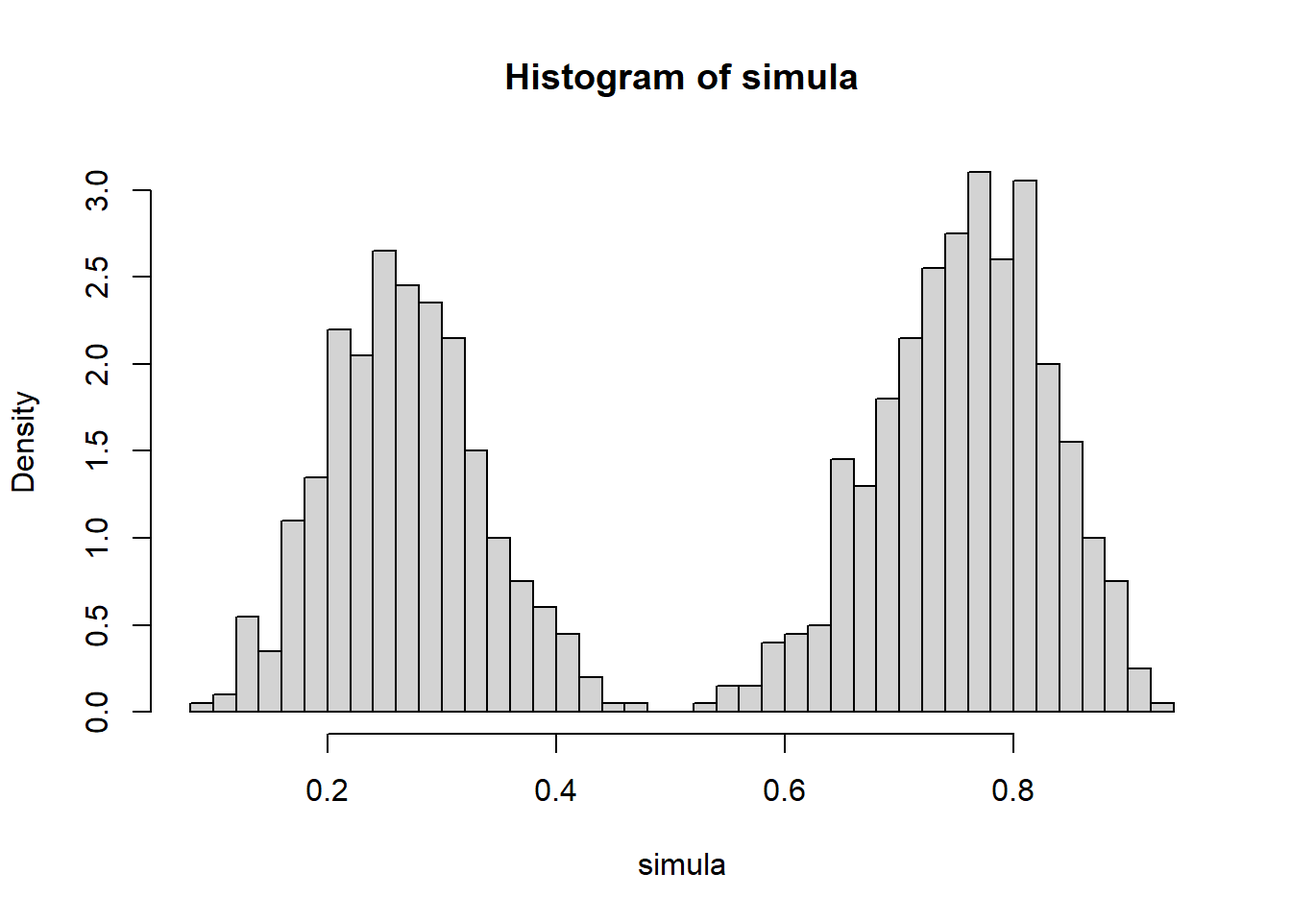
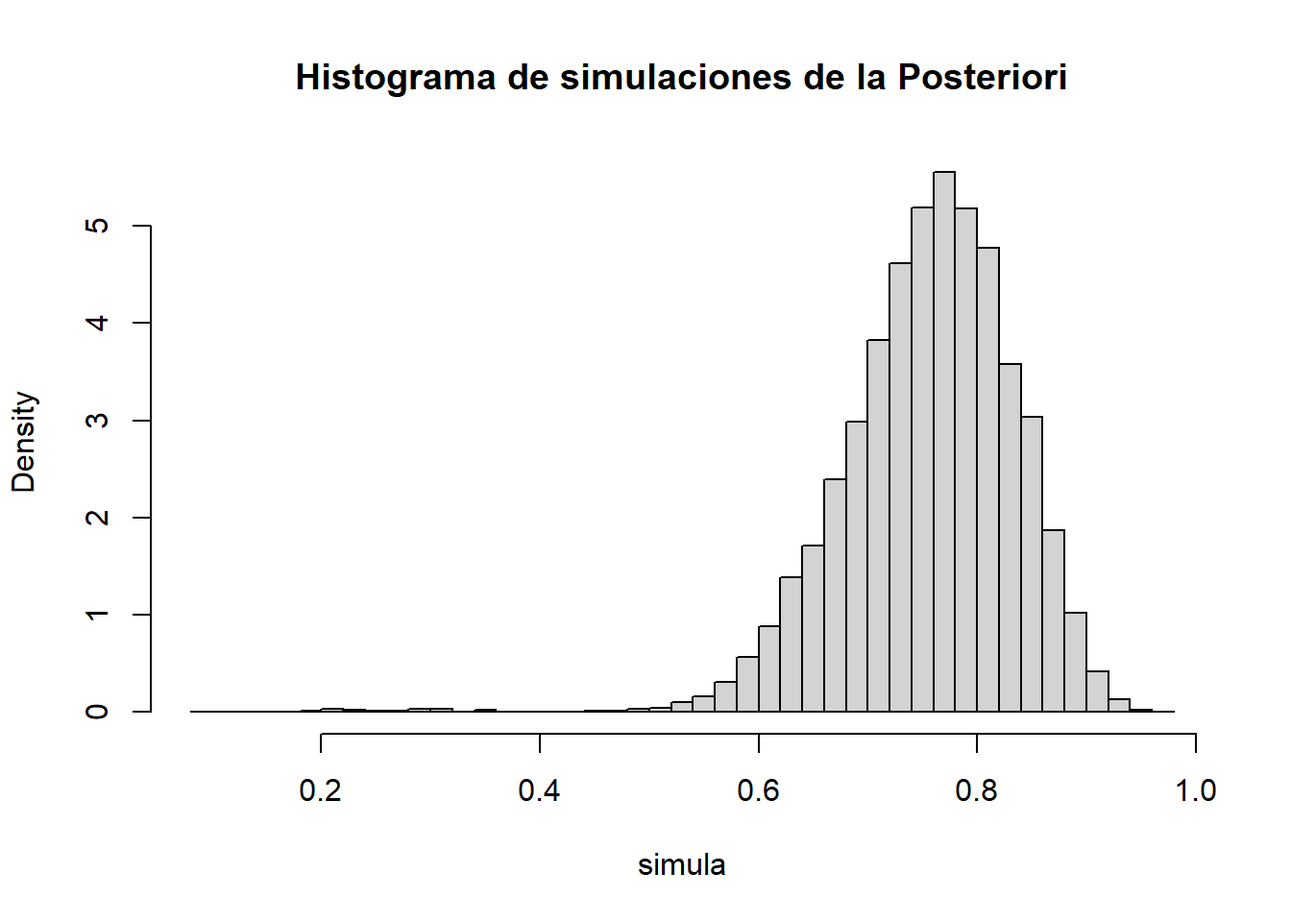
Se actualiza hasta el contenido previo a la I2, se añade una ayudantía.

diff --git a/Metodos-bayesianos_Ayudantia8.html b/Metodos-bayesianos_Ayudantia8.html
@@ -115,6 +115,7 @@ code span.wa { color: #60a0b0; font-weight: bold; font-style: italic; } /* Warni
   <li><a href="#ayudantía-8" id="toc-ayudantía-8" class="nav-link" data-scroll-target="#ayudantía-8">Ayudantía 8</a>
   <ul class="collapse">
   <li><a href="#ejercicio-1" id="toc-ejercicio-1" class="nav-link" data-scroll-target="#ejercicio-1">Ejercicio 1</a></li>
+  <li><a href="#ejercicio-extra" id="toc-ejercicio-extra" class="nav-link" data-scroll-target="#ejercicio-extra">Ejercicio Extra</a></li>
   </ul></li>
   </ul></li>
   </ul>
@@ -166,15 +167,15 @@ code span.wa { color: #60a0b0; font-weight: bold; font-style: italic; } /* Warni
 <span id="cb1-5"><a href="#cb1-5" aria-hidden="true" tabindex="-1"></a>a_2 <span class="ot">&lt;-</span> <span class="dv">15</span> <span class="co"># \alpha_2</span></span>
 <span id="cb1-6"><a href="#cb1-6" aria-hidden="true" tabindex="-1"></a>b_2 <span class="ot">&lt;-</span> <span class="dv">1</span> <span class="co"># \beta_2</span></span>
 <span id="cb1-7"><a href="#cb1-7" aria-hidden="true" tabindex="-1"></a></span>
-<span id="cb1-8"><a href="#cb1-8" aria-hidden="true" tabindex="-1"></a>C_1 <span class="ot">&lt;-</span> <span class="fu">gamma</span>(n<span class="sc">+</span><span class="dv">1</span>)<span class="sc">*</span><span class="fu">gamma</span>(a_1<span class="sc">+</span>b_1)<span class="sc">*</span><span class="fu">gamma</span>(Y<span class="sc">+</span>a_1)<span class="sc">*</span><span class="fu">gamma</span>(n<span class="sc">-</span>Y<span class="sc">+</span>b_1)<span class="sc">/</span>(<span class="fu">gamma</span>(n<span class="sc">-</span>Y<span class="sc">+</span><span class="dv">1</span>)<span class="sc">*</span><span class="fu">gamma</span>(Y<span class="sc">+</span><span class="dv">1</span>)<span class="sc">*</span><span class="fu">gamma</span>(n<span class="sc">+</span>a_1<span class="sc">+</span>b_1)<span class="sc">*</span><span class="fu">gamma</span>(a_1)<span class="sc">*</span><span class="fu">gamma</span>(b_1))</span>
+<span id="cb1-8"><a href="#cb1-8" aria-hidden="true" tabindex="-1"></a>C_1 <span class="ot">&lt;-</span> <span class="fu">gamma</span>(n<span class="sc">+</span><span class="dv">1</span>)<span class="sc">*</span><span class="fu">gamma</span>(a_1<span class="sc">+</span>b_1)<span class="sc">*</span><span class="fu">gamma</span>(Y<span class="sc">+</span>a_1)<span class="sc">*</span><span class="fu">gamma</span>(n<span class="sc">-</span>Y<span class="sc">+</span>b_1)<span class="sc">/</span>(<span class="fu">gamma</span>(n<span class="sc">-</span>Y<span class="sc">+</span><span class="dv">1</span>)<span class="sc">*</span><span class="fu">gamma</span>(Y<span class="sc">+</span><span class="dv">1</span>)<span class="sc">*</span><span class="fu">gamma</span>(a_1<span class="sc">+</span>b_1<span class="sc">+</span>n)<span class="sc">*</span><span class="fu">gamma</span>(a_1)<span class="sc">*</span><span class="fu">gamma</span>(b_1))</span>
 <span id="cb1-9"><a href="#cb1-9" aria-hidden="true" tabindex="-1"></a></span>
-<span id="cb1-10"><a href="#cb1-10" aria-hidden="true" tabindex="-1"></a>C_2 <span class="ot">&lt;-</span> <span class="fu">gamma</span>(n<span class="sc">+</span><span class="dv">1</span>)<span class="sc">*</span><span class="fu">gamma</span>(a_2<span class="sc">+</span>b_2)<span class="sc">*</span><span class="fu">gamma</span>(Y<span class="sc">+</span>a_2)<span class="sc">*</span><span class="fu">gamma</span>(n<span class="sc">-</span>Y<span class="sc">+</span>b_2)<span class="sc">/</span>(<span class="fu">gamma</span>(n<span class="sc">-</span>Y<span class="sc">+</span><span class="dv">1</span>)<span class="sc">*</span><span class="fu">gamma</span>(Y<span class="sc">+</span><span class="dv">1</span>)<span class="sc">*</span><span class="fu">gamma</span>(n<span class="sc">+</span>a_2<span class="sc">+</span>b_2)<span class="sc">*</span><span class="fu">gamma</span>(a_2)<span class="sc">*</span><span class="fu">gamma</span>(b_2))</span></code><button title="Copiar al portapapeles" class="code-copy-button"><i class="bi"></i></button></pre></div>
+<span id="cb1-10"><a href="#cb1-10" aria-hidden="true" tabindex="-1"></a>C_2 <span class="ot">&lt;-</span> <span class="fu">gamma</span>(n<span class="sc">+</span><span class="dv">1</span>)<span class="sc">*</span><span class="fu">gamma</span>(a_2<span class="sc">+</span>b_2)<span class="sc">*</span><span class="fu">gamma</span>(Y<span class="sc">+</span>a_2)<span class="sc">*</span><span class="fu">gamma</span>(n<span class="sc">-</span>Y<span class="sc">+</span>b_2)<span class="sc">/</span>(<span class="fu">gamma</span>(n<span class="sc">-</span>Y<span class="sc">+</span><span class="dv">1</span>)<span class="sc">*</span><span class="fu">gamma</span>(Y<span class="sc">+</span><span class="dv">1</span>)<span class="sc">*</span><span class="fu">gamma</span>(a_2<span class="sc">+</span>b_2<span class="sc">+</span>n)<span class="sc">*</span><span class="fu">gamma</span>(a_2)<span class="sc">*</span><span class="fu">gamma</span>(b_2))</span></code><button title="Copiar al portapapeles" class="code-copy-button"><i class="bi"></i></button></pre></div>
 </div>
 <p>Calculamos <span class="math inline">\(C\)</span> haciendo un promedio ponderado de los <span class="math inline">\(C_j\)</span>, donde la ponderación es <span class="math inline">\(\frac{1}{2}\)</span> según el modelo propuesto para cada <span class="math inline">\(C_j\)</span>, luego:</p>
 <div class="cell">
 <div class="sourceCode cell-code" id="cb2"><pre class="sourceCode r code-with-copy"><code class="sourceCode r"><span id="cb2-1"><a href="#cb2-1" aria-hidden="true" tabindex="-1"></a>C <span class="ot">&lt;-</span> <span class="fl">0.5</span><span class="sc">*</span>C_1 <span class="sc">+</span> <span class="fl">0.5</span><span class="sc">*</span>C_2</span></code><button title="Copiar al portapapeles" class="code-copy-button"><i class="bi"></i></button></pre></div>
 </div>
-<p>Los pesos actualizados se obtienen con <span class="math inline">\(w_j^{(1)} = \frac{w_j^{(0)}C_j}{\sum_i w_i^{(0)}C_i}\)</span>.</p>
+<p>Los pesos actualizados se obtienen con <span class="math inline">\(w_j^{(1)} = \frac{w_j^{(0)}C_j}{\sum_i w_i^{(0)}C_i} = \frac{w_j^{(0)}C_j}{C}\)</span>.</p>
 <div class="cell">
 <div class="sourceCode cell-code" id="cb3"><pre class="sourceCode r code-with-copy"><code class="sourceCode r"><span id="cb3-1"><a href="#cb3-1" aria-hidden="true" tabindex="-1"></a>(w_1 <span class="ot">&lt;-</span> <span class="fl">0.5</span> <span class="sc">*</span> C_1 <span class="sc">/</span> C)</span></code><button title="Copiar al portapapeles" class="code-copy-button"><i class="bi"></i></button></pre></div>
 <div class="cell-output cell-output-stdout">
@@ -185,22 +186,30 @@ code span.wa { color: #60a0b0; font-weight: bold; font-style: italic; } /* Warni
 <pre><code>[1] 0.9949519</code></pre>
 </div>
 </div>
+<p>Luego, ya tenemos armada la densidad a posteriori, que es una distribución mixta: <span class="math inline">\(p(\theta|x) = 0.005 \cdot \textup{Beta}(10+1,17-10+23) + 0.995 \cdot \textup{Beta}(10+15,17-10+1)\)</span>. Entonces procedemos a simular desde esta distribución para obtener una gráfica de la forma de su densidad:</p>
 <div class="cell">
-<div class="sourceCode cell-code" id="cb7"><pre class="sourceCode r code-with-copy"><code class="sourceCode r"><span id="cb7-1"><a href="#cb7-1" aria-hidden="true" tabindex="-1"></a>simula <span class="ot">&lt;-</span> <span class="cn">NULL</span></span>
-<span id="cb7-2"><a href="#cb7-2" aria-hidden="true" tabindex="-1"></a><span class="cf">for</span> (j <span class="cf">in</span> <span class="dv">1</span><span class="sc">:</span><span class="dv">1000</span>) {</span>
-<span id="cb7-3"><a href="#cb7-3" aria-hidden="true" tabindex="-1"></a>  <span class="cf">if</span> (<span class="fu">runif</span>(<span class="dv">1</span>) <span class="sc">&lt;</span> <span class="fl">0.44</span>){</span>
-<span id="cb7-4"><a href="#cb7-4" aria-hidden="true" tabindex="-1"></a>    simula[j] <span class="ot">&lt;-</span> <span class="fu">rbeta</span>(<span class="dv">1</span>, Y<span class="sc">+</span>a_1, n<span class="sc">-</span>Y<span class="sc">+</span>b_1)</span>
-<span id="cb7-5"><a href="#cb7-5" aria-hidden="true" tabindex="-1"></a>  }</span>
-<span id="cb7-6"><a href="#cb7-6" aria-hidden="true" tabindex="-1"></a>  <span class="cf">else</span>{</span>
-<span id="cb7-7"><a href="#cb7-7" aria-hidden="true" tabindex="-1"></a>    simula[j] <span class="ot">&lt;-</span> <span class="fu">rbeta</span>(<span class="dv">1</span>, Y<span class="sc">+</span>a_2, n<span class="sc">-</span>Y<span class="sc">+</span>b_2)</span>
-<span id="cb7-8"><a href="#cb7-8" aria-hidden="true" tabindex="-1"></a>  }</span>
-<span id="cb7-9"><a href="#cb7-9" aria-hidden="true" tabindex="-1"></a>}</span>
-<span id="cb7-10"><a href="#cb7-10" aria-hidden="true" tabindex="-1"></a></span>
-<span id="cb7-11"><a href="#cb7-11" aria-hidden="true" tabindex="-1"></a><span class="fu">hist</span>(simula, <span class="at">probability =</span> T, <span class="at">breaks =</span> <span class="dv">50</span>)</span></code><button title="Copiar al portapapeles" class="code-copy-button"><i class="bi"></i></button></pre></div>
+<div class="sourceCode cell-code" id="cb7"><pre class="sourceCode r code-with-copy"><code class="sourceCode r"><span id="cb7-1"><a href="#cb7-1" aria-hidden="true" tabindex="-1"></a><span class="fu">set.seed</span>(<span class="dv">2023</span>)</span>
+<span id="cb7-2"><a href="#cb7-2" aria-hidden="true" tabindex="-1"></a></span>
+<span id="cb7-3"><a href="#cb7-3" aria-hidden="true" tabindex="-1"></a>simula <span class="ot">&lt;-</span> <span class="cn">NULL</span></span>
+<span id="cb7-4"><a href="#cb7-4" aria-hidden="true" tabindex="-1"></a><span class="cf">for</span> (j <span class="cf">in</span> <span class="dv">1</span><span class="sc">:</span><span class="dv">10000</span>) {</span>
+<span id="cb7-5"><a href="#cb7-5" aria-hidden="true" tabindex="-1"></a>  <span class="cf">if</span> (<span class="fu">runif</span>(<span class="dv">1</span>) <span class="sc">&lt;</span> w_1){</span>
+<span id="cb7-6"><a href="#cb7-6" aria-hidden="true" tabindex="-1"></a>    simula[j] <span class="ot">&lt;-</span> <span class="fu">rbeta</span>(<span class="dv">1</span>, Y<span class="sc">+</span>a_1, n<span class="sc">-</span>Y<span class="sc">+</span>b_1)</span>
+<span id="cb7-7"><a href="#cb7-7" aria-hidden="true" tabindex="-1"></a>  }</span>
+<span id="cb7-8"><a href="#cb7-8" aria-hidden="true" tabindex="-1"></a>  <span class="cf">else</span>{</span>
+<span id="cb7-9"><a href="#cb7-9" aria-hidden="true" tabindex="-1"></a>    simula[j] <span class="ot">&lt;-</span> <span class="fu">rbeta</span>(<span class="dv">1</span>, Y<span class="sc">+</span>a_2, n<span class="sc">-</span>Y<span class="sc">+</span>b_2)</span>
+<span id="cb7-10"><a href="#cb7-10" aria-hidden="true" tabindex="-1"></a>  }</span>
+<span id="cb7-11"><a href="#cb7-11" aria-hidden="true" tabindex="-1"></a>}</span>
+<span id="cb7-12"><a href="#cb7-12" aria-hidden="true" tabindex="-1"></a></span>
+<span id="cb7-13"><a href="#cb7-13" aria-hidden="true" tabindex="-1"></a><span class="fu">hist</span>(simula, </span>
+<span id="cb7-14"><a href="#cb7-14" aria-hidden="true" tabindex="-1"></a>     <span class="at">probability =</span> T, </span>
+<span id="cb7-15"><a href="#cb7-15" aria-hidden="true" tabindex="-1"></a>     <span class="at">breaks =</span> <span class="dv">50</span>, </span>
+<span id="cb7-16"><a href="#cb7-16" aria-hidden="true" tabindex="-1"></a>     <span class="at">main =</span> <span class="st">"Histograma de simulaciones de la Posteriori"</span></span>
+<span id="cb7-17"><a href="#cb7-17" aria-hidden="true" tabindex="-1"></a>     )</span></code><button title="Copiar al portapapeles" class="code-copy-button"><i class="bi"></i></button></pre></div>
 <div class="cell-output-display">
 <p><img src="Metodos-bayesianos_Ayudantia8_files/figure-html/unnamed-chunk-4-1.png" class="img-fluid" width="672"></p>
 </div>
 </div>
+<p>Luego, además de obtener intervalos de confianza con la función hpd() usando la función inversa de la distribución, también se pueden usar, en general, vectores con simulaciones de la v.a.. Entonces usando esto, calculamos las respectivas regiones de credibilidad:</p>
 <div class="cell">
 <div class="sourceCode cell-code" id="cb8"><pre class="sourceCode r code-with-copy"><code class="sourceCode r"><span id="cb8-1"><a href="#cb8-1" aria-hidden="true" tabindex="-1"></a><span class="fu">library</span>(TeachingDemos)</span></code><button title="Copiar al portapapeles" class="code-copy-button"><i class="bi"></i></button></pre></div>
 <div class="cell-output cell-output-stderr">
@@ -209,31 +218,152 @@ code span.wa { color: #60a0b0; font-weight: bold; font-style: italic; } /* Warni
 <div class="sourceCode cell-code" id="cb10"><pre class="sourceCode r code-with-copy"><code class="sourceCode r"><span id="cb10-1"><a href="#cb10-1" aria-hidden="true" tabindex="-1"></a>intervalo <span class="ot">&lt;-</span> <span class="fu">emp.hpd</span>(simula, <span class="at">conf=</span><span class="fl">0.95</span>)</span>
 <span id="cb10-2"><a href="#cb10-2" aria-hidden="true" tabindex="-1"></a>intervalo</span></code><button title="Copiar al portapapeles" class="code-copy-button"><i class="bi"></i></button></pre></div>
 <div class="cell-output cell-output-stdout">
-<pre><code>[1] 0.168392 0.878021</code></pre>
+<pre><code>[1] 0.6115668 0.8988404</code></pre>
 </div>
-<div class="sourceCode cell-code" id="cb12"><pre class="sourceCode r code-with-copy"><code class="sourceCode r"><span id="cb12-1"><a href="#cb12-1" aria-hidden="true" tabindex="-1"></a><span class="fu">library</span>(hdrcde)</span></code><button title="Copiar al portapapeles" class="code-copy-button"><i class="bi"></i></button></pre></div>
+</div>
+<p>La opción anterior no nos da la región hpd, sino que el intervalo hpd. Si se quiere la región hpd, podemos usar la función hdi(), de la librería HDInterval:</p>
+<div class="cell">
+<div class="sourceCode cell-code" id="cb12"><pre class="sourceCode r code-with-copy"><code class="sourceCode r"><span id="cb12-1"><a href="#cb12-1" aria-hidden="true" tabindex="-1"></a><span class="fu">library</span>(HDInterval)</span></code><button title="Copiar al portapapeles" class="code-copy-button"><i class="bi"></i></button></pre></div>
+<div class="cell-output cell-output-stderr">
+<pre><code>Warning: package 'HDInterval' was built under R version 4.2.3</code></pre>
+</div>
+<div class="sourceCode cell-code" id="cb14"><pre class="sourceCode r code-with-copy"><code class="sourceCode r"><span id="cb14-1"><a href="#cb14-1" aria-hidden="true" tabindex="-1"></a><span class="fu">hdi</span>(simula, <span class="at">allowSplit =</span> <span class="cn">TRUE</span>, <span class="at">credMass =</span> <span class="fl">0.95</span>)</span></code><button title="Copiar al portapapeles" class="code-copy-button"><i class="bi"></i></button></pre></div>
+<div class="cell-output cell-output-stdout">
+<pre><code>    lower     upper 
+0.6115668 0.8988404 
+attr(,"credMass")
+[1] 0.95</code></pre>
+</div>
+</div>
+<p>También podemos usar la función density() para generar un objeto tipo density que permite graficar la densidad, entre otras cosas:</p>
+<div class="cell">
+<div class="sourceCode cell-code" id="cb16"><pre class="sourceCode r code-with-copy"><code class="sourceCode r"><span id="cb16-1"><a href="#cb16-1" aria-hidden="true" tabindex="-1"></a><span class="fu">library</span>(ggplot2)</span>
+<span id="cb16-2"><a href="#cb16-2" aria-hidden="true" tabindex="-1"></a>densidad <span class="ot">&lt;-</span> <span class="fu">density</span>(simula)</span>
+<span id="cb16-3"><a href="#cb16-3" aria-hidden="true" tabindex="-1"></a>datos <span class="ot">&lt;-</span> <span class="fu">data.frame</span>(<span class="at">x =</span> densidad<span class="sc">$</span>x, <span class="at">y =</span> densidad<span class="sc">$</span>y)</span>
+<span id="cb16-4"><a href="#cb16-4" aria-hidden="true" tabindex="-1"></a>intervalo <span class="ot">&lt;-</span> <span class="fu">hdi</span>(densidad, <span class="at">allowSplit =</span> <span class="cn">TRUE</span>, <span class="at">credMass =</span> <span class="fl">0.95</span>) <span class="co">#Al aplicar density() el intervalo cambia un poco</span></span>
+<span id="cb16-5"><a href="#cb16-5" aria-hidden="true" tabindex="-1"></a>fdp.int <span class="ot">&lt;-</span> <span class="fu">attr</span>(intervalo, <span class="st">'height'</span>)</span>
+<span id="cb16-6"><a href="#cb16-6" aria-hidden="true" tabindex="-1"></a><span class="co">#hdi también devuelve los extremos de los intervalos evaluados en la densidad (en este caso solo es un punto el que devuelve, ya que ambos extremos evaluados valen lo mismo). Para obtenerlos se puede usar esto</span></span>
+<span id="cb16-7"><a href="#cb16-7" aria-hidden="true" tabindex="-1"></a></span>
+<span id="cb16-8"><a href="#cb16-8" aria-hidden="true" tabindex="-1"></a><span class="fu">ggplot</span>(<span class="at">data=</span>datos, <span class="at">mapping=</span><span class="fu">aes</span>(<span class="at">x =</span> x, <span class="at">y =</span> y)) <span class="sc">+</span></span>
+<span id="cb16-9"><a href="#cb16-9" aria-hidden="true" tabindex="-1"></a>  <span class="fu">geom_ribbon</span>(<span class="at">data=</span>datos[datos<span class="sc">$</span>x <span class="sc">&lt;</span> intervalo[<span class="dv">2</span>],][datos<span class="sc">$</span>x <span class="sc">&gt;</span> intervalo[<span class="dv">1</span>],], <span class="at">mapping =</span> <span class="fu">aes</span>(<span class="at">ymin=</span><span class="dv">0</span>, <span class="at">ymax=</span>y), <span class="at">fill =</span> <span class="st">"red"</span>) <span class="sc">+</span>  </span>
+<span id="cb16-10"><a href="#cb16-10" aria-hidden="true" tabindex="-1"></a>  <span class="fu">geom_line</span>(<span class="at">lwd=</span><span class="fl">1.5</span>) <span class="sc">+</span></span>
+<span id="cb16-11"><a href="#cb16-11" aria-hidden="true" tabindex="-1"></a>  <span class="fu">labs</span>(<span class="at">title =</span> <span class="st">"Función de densidad"</span>,</span>
+<span id="cb16-12"><a href="#cb16-12" aria-hidden="true" tabindex="-1"></a>       <span class="at">x =</span> <span class="st">"x"</span>,</span>
+<span id="cb16-13"><a href="#cb16-13" aria-hidden="true" tabindex="-1"></a>       <span class="at">y =</span> <span class="st">"Densidad a Posteriori"</span></span>
+<span id="cb16-14"><a href="#cb16-14" aria-hidden="true" tabindex="-1"></a>       ) <span class="sc">+</span></span>
+<span id="cb16-15"><a href="#cb16-15" aria-hidden="true" tabindex="-1"></a>  <span class="fu">geom_hline</span>(<span class="at">yintercept=</span>fdp.int, <span class="at">linetype=</span><span class="st">"dashed"</span>, <span class="at">lwd=</span><span class="fl">1.5</span>, <span class="at">color=</span><span class="st">"blue"</span>) <span class="sc">+</span></span>
+<span id="cb16-16"><a href="#cb16-16" aria-hidden="true" tabindex="-1"></a>  <span class="fu">theme_light</span>()</span></code><button title="Copiar al portapapeles" class="code-copy-button"><i class="bi"></i></button></pre></div>
+<div class="cell-output-display">
+<p><img src="Metodos-bayesianos_Ayudantia8_files/figure-html/unnamed-chunk-7-1.png" class="img-fluid" width="672"></p>
+</div>
+</div>
+<div class="cell">
+<div class="sourceCode cell-code" id="cb17"><pre class="sourceCode r code-with-copy"><code class="sourceCode r"><span id="cb17-1"><a href="#cb17-1" aria-hidden="true" tabindex="-1"></a><span class="fu">library</span>(hdrcde)</span></code><button title="Copiar al portapapeles" class="code-copy-button"><i class="bi"></i></button></pre></div>
 <div class="cell-output cell-output-stderr">
 <pre><code>Warning: package 'hdrcde' was built under R version 4.2.3</code></pre>
 </div>
 <div class="cell-output cell-output-stderr">
 <pre><code>This is hdrcde 3.4</code></pre>
 </div>
-<div class="sourceCode cell-code" id="cb15"><pre class="sourceCode r code-with-copy"><code class="sourceCode r"><span id="cb15-1"><a href="#cb15-1" aria-hidden="true" tabindex="-1"></a>region <span class="ot">&lt;-</span> <span class="fu">hdr.den</span>(simula, <span class="at">prob=</span><span class="dv">95</span>) <span class="co"># En porcentaje</span></span></code><button title="Copiar al portapapeles" class="code-copy-button"><i class="bi"></i></button></pre></div>
+<div class="sourceCode cell-code" id="cb20"><pre class="sourceCode r code-with-copy"><code class="sourceCode r"><span id="cb20-1"><a href="#cb20-1" aria-hidden="true" tabindex="-1"></a>region <span class="ot">&lt;-</span> <span class="fu">hdr.den</span>(simula, <span class="at">prob=</span><span class="dv">95</span>) <span class="co"># En porcentaje</span></span></code><button title="Copiar al portapapeles" class="code-copy-button"><i class="bi"></i></button></pre></div>
 <div class="cell-output-display">
-<p><img src="Metodos-bayesianos_Ayudantia8_files/figure-html/unnamed-chunk-5-1.png" class="img-fluid" width="672"></p>
+<p><img src="Metodos-bayesianos_Ayudantia8_files/figure-html/unnamed-chunk-8-1.png" class="img-fluid" width="672"></p>
 </div>
-<div class="sourceCode cell-code" id="cb16"><pre class="sourceCode r code-with-copy"><code class="sourceCode r"><span id="cb16-1"><a href="#cb16-1" aria-hidden="true" tabindex="-1"></a>region</span></code><button title="Copiar al portapapeles" class="code-copy-button"><i class="bi"></i></button></pre></div>
+<div class="sourceCode cell-code" id="cb21"><pre class="sourceCode r code-with-copy"><code class="sourceCode r"><span id="cb21-1"><a href="#cb21-1" aria-hidden="true" tabindex="-1"></a>region</span></code><button title="Copiar al portapapeles" class="code-copy-button"><i class="bi"></i></button></pre></div>
 <div class="cell-output cell-output-stdout">
 <pre><code>$hdr
-         [,1]      [,2]      [,3]      [,4]
-95% 0.1396358 0.3940332 0.6069449 0.9101763
+         [,1]      [,2]
+95% 0.6142511 0.9028507
 
 $mode
-[1] 0.7632572
+[1] 0.7667075
 
 $falpha
-       5% 
-0.8266009 </code></pre>
+      5% 
+1.283309 </code></pre>
+</div>
+</div>
+</section>
+<section id="ejercicio-extra" class="level3">
+<h3 class="anchored" data-anchor-id="ejercicio-extra">Ejercicio Extra</h3>
+<p>Considere <span class="math inline">\(x_1, ..., x_{10} | \theta \stackrel{iid}{\sim} N(\theta,1)\)</span>, en donde su media observada es <span class="math inline">\(\bar{y} = - 0.25\)</span>. Considere una priori <span class="math inline">\(\theta \sim 0.9 \cdot N(1,0.5^2) + 0.1 \cdot N(-1, 0.5^2)\)</span> Encuentre la distribución a posteriori y la región HPD de un 95% de credibilidad.</p>
+<p>Para obtener la distribución a posteriori usaremos la fórmula conocida. Entonces para usarla debemos calcular las posterioris correspondientes de las densidades que conforman la priori mixta:<br> <span class="math inline">\(p_j^{(1)}(\theta) \propto \exp \left\{ -\frac{1}{2\sigma^2} (\sum x_i^2 - 2\theta \sum x_i + n\theta^2) \right\} \cdot \exp \left\{ -\frac{1}{2\sigma_j^2} (\theta^2 - 2\mu_j \theta + \mu_j^2) \right\}\)</span><br> (Este es un modelo normal-normal)<br> <span class="math inline">\(p_j^{(1)}(\theta) \propto \exp \left\{ -\frac{1}{2 \sigma^2 \sigma_j^2} (- \sigma_j^2 \cdot 2\theta \sum x_i + \sigma_j^2 \cdot n\theta^2 - \sigma^2 \cdot 2\mu_j \theta + \sigma^2 \cdot \theta) \right\}\)</span><br> <span class="math inline">\(\propto \exp \left\{ -\frac{1}{2 \sigma^2 \sigma_j^2} (- 2\theta (\sigma_j^2 \sum x_i + \sigma^2 \mu_j) + \theta^2 (\sigma_j^2 n + \sigma^2) ) \right\}\)</span><br> <span class="math inline">\(\propto \exp \left\{ -\frac{\sigma_j^2 n + \sigma^2}{2 \sigma^2 \sigma_j^2} (- 2\theta (\frac{\sigma_j^2 \sum x_i + \sigma^2 \mu_j}{\sigma_j^2 n + \sigma^2}) + \theta^2) \right\}\)</span><br> <span class="math inline">\(\propto \exp \left\{ - \frac{1}{2} \left( \frac{n}{\sigma^2} + \frac{1}{\sigma_j^2} \right)^{-1} \left( - 2\theta \left( \frac{n}{\sigma^2} + \frac{1}{\sigma_j^2} \right)^{-1} \left( \frac{\mu_j}{\sigma_j^2} + \frac{\sum x_i}{\sigma^2} \right) + \theta^2 \right) \right\}\)</span><br> Este es el kernel de una <span class="math inline">\(\theta|y \sim N \left( \left( \frac{n}{\sigma^2} + \frac{1}{\sigma_j^2} \right)^{-1} \left( \frac{\mu_j}{\sigma_j^2} + \frac{\sum x_i}{\sigma^2} \right), \left( \frac{n}{\sigma^2} + \frac{1}{\sigma_j^2} \right)^{-1} \right)\)</span>.<br> Ahora, queremos calcular los pesos actualizados a estas posterioris, entonces: <span class="math inline">\(C_j = \int_{\mathbb{R}} \left( \frac{1}{\sqrt{2\pi\sigma^2}} \right)^n \exp \left\{ -\frac{1}{2\sigma^2} (\sum x_i^2 - 2\theta \sum x_i + n\theta^2) \right\} \cdot \left( \frac{1}{\sqrt{2\pi\sigma_j^2}} \right) \exp \left\{ -\frac{1}{2\sigma_j^2} (\theta^2 - 2\mu_j \theta + \mu_j^2) \right\} d\theta\)</span><br> <span class="math inline">\(= \left( \frac{1}{\sqrt{2\pi\sigma^2}} \right)^n \cdot \left( \frac{1}{\sqrt{2\pi\sigma_j^2}} \right) \int_{\mathbb{R}} \exp \left\{ -\frac{1}{2\sigma^2\sigma_j^2} (\sigma_j^2\sum x_i^2 - 2\theta \sigma_j^2\sum x_i + \theta^2 \sigma_j^2n + \theta^2\sigma^2 - 2\sigma^2\theta \mu_j + \sigma^2\mu_j^2) \right\} d\theta\)</span><br> <span class="math inline">\(= \left( \frac{1}{\sqrt{2\pi\sigma^2}} \right)^n \cdot \left( \frac{1}{\sqrt{2\pi\sigma_j^2}} \right) \cdot e^{-\frac{\sigma_j^2\sum x_i^2 + \sigma^2\mu_j}{2\sigma^2\sigma_j^2}} \int_{\mathbb{R}} \exp \left\{ -\frac{1}{2\sigma^2\sigma_j^2} (- 2\theta (\sigma_j^2\sum x_i + \sigma^2\mu_j) + \theta^2 (\sigma_j^2n + \sigma^2)) \right\} d\theta\)</span><br> <span class="math inline">\(= \left( \frac{1}{\sqrt{2\pi\sigma^2}} \right)^n \cdot \left( \frac{1}{\sqrt{2\pi\sigma_j^2}} \right) \cdot \exp \left\{ -\frac{\sigma_j^2\sum x_i^2 + \sigma^2\mu_j}{2\sigma^2\sigma_j^2} + \frac{\left( \frac{n}{\sigma^2} + \frac{1}{\sigma_j^2} \right)^{-2} \left( \frac{\mu_j}{\sigma_j^2} + \frac{\sum x_i}{\sigma^2} \right)^2}{2\left( \frac{n}{\sigma^2} + \frac{1}{\sigma_j^2} \right)^{-1}} \right\} \int_{\mathbb{R}} \exp \left\{ -\frac{1}{2}\left( \frac{n}{\sigma^2} + \frac{1}{\sigma_j^2} \right)^{-1} \left( \theta - \left( \frac{n}{\sigma^2} + \frac{1}{\sigma_j^2} \right)^{-1} \left( \frac{\mu_j}{\sigma_j^2} + \frac{\sum x_i}{\sigma^2} \right) \right)^2 \right\} d\theta\)</span><br> <span class="math inline">\(= \left( \frac{1}{\sqrt{2\pi(n\sigma_j^2 + \sigma^2)^{-1}}} \right)^{n} \cdot \exp \left\{ -\frac{\sigma_j^2\sum x_i^2 + \sigma^2\mu_j}{2\sigma^2\sigma_j^2} + \frac{\left( \frac{n}{\sigma^2} + \frac{1}{\sigma_j^2} \right)^{-1} \left( \frac{\mu_j}{\sigma_j^2} + \frac{\sum x_i}{\sigma^2} \right)^2}{2} \right\}\)</span><br> <span class="math inline">\(= \left( \frac{1}{\sqrt{2\pi(n\sigma_j^2 + \sigma^2)^{-1}}} \right)^{n} \cdot \exp \left\{ -\frac{\sigma_j^2\sum x_i^2 + \sigma^2\mu_j}{2\sigma^2\sigma_j^2} + \frac{\sigma^2\sigma_j^2 \left( \frac{\mu_j}{\sigma_j^2} + \frac{\sum x_i}{\sigma^2} \right)^2}{2 (n\sigma_j^2 + \sigma^2)} \right\}\)</span><br> <span class="math inline">\(= \left( \frac{1}{\sqrt{2\pi(n\sigma_j^2 + \sigma^2)^{-1}}} \right)^{n} \cdot \exp \left\{ -\frac{\sum x_i^2}{2\sigma^2} - \frac{\mu_j}{2\sigma^2_j} + \frac{ \frac{\sigma^2\mu_j^2}{\sigma_j^2} + 2\mu_j\sum x_i + \sigma_j^2\frac{(\sum x_i)^2}{\sigma^2}}{2 (n\sigma_j^2 + \sigma^2)} \right\}\)</span><br> <span class="math inline">\(= \left( \frac{1}{\sqrt{2\pi(n\sigma_j^2 + \sigma^2)^{-1}}} \right)^{n} \cdot \exp \left\{ \frac{-\frac{\sum x_i^2}{\sigma^2}n\sigma_j^2 - \sum x_i^2 - \mu_j n - \frac{\mu_j}{\sigma^2_j}\sigma^2}{2 (n\sigma_j^2 + \sigma^2)} + \frac{ \frac{\sigma^2\mu_j^2}{\sigma_j^2} + 2\mu_j\sum x_i + \sigma_j^2\frac{(\sum x_i)^2}{\sigma^2}}{2 (n\sigma_j^2 + \sigma^2)} \right\}\)</span><br> Luego, podemos calcular estas constantes:</p>
+<div class="cell">
+<div class="sourceCode cell-code" id="cb23"><pre class="sourceCode r code-with-copy"><code class="sourceCode r"><span id="cb23-1"><a href="#cb23-1" aria-hidden="true" tabindex="-1"></a>n <span class="ot">&lt;-</span> <span class="dv">10</span></span>
+<span id="cb23-2"><a href="#cb23-2" aria-hidden="true" tabindex="-1"></a>sumx <span class="ot">&lt;-</span> <span class="sc">-</span><span class="fl">2.5</span></span>
+<span id="cb23-3"><a href="#cb23-3" aria-hidden="true" tabindex="-1"></a>sigma1 <span class="ot">&lt;-</span> <span class="fl">0.5</span><span class="sc">^</span><span class="dv">2</span></span>
+<span id="cb23-4"><a href="#cb23-4" aria-hidden="true" tabindex="-1"></a>sigma2 <span class="ot">&lt;-</span> <span class="fl">0.5</span><span class="sc">^</span><span class="dv">2</span></span>
+<span id="cb23-5"><a href="#cb23-5" aria-hidden="true" tabindex="-1"></a>mu1 <span class="ot">&lt;-</span> <span class="dv">1</span></span>
+<span id="cb23-6"><a href="#cb23-6" aria-hidden="true" tabindex="-1"></a>mu2 <span class="ot">&lt;-</span> <span class="sc">-</span><span class="dv">1</span></span>
+<span id="cb23-7"><a href="#cb23-7" aria-hidden="true" tabindex="-1"></a>sigma <span class="ot">&lt;-</span> <span class="dv">1</span></span>
+<span id="cb23-8"><a href="#cb23-8" aria-hidden="true" tabindex="-1"></a>denom1 <span class="ot">&lt;-</span> (n <span class="sc">*</span> sigma1 <span class="sc">+</span> sigma)<span class="sc">^</span>(<span class="sc">-</span><span class="dv">1</span>)</span>
+<span id="cb23-9"><a href="#cb23-9" aria-hidden="true" tabindex="-1"></a>denom2 <span class="ot">&lt;-</span> (n <span class="sc">*</span> sigma2 <span class="sc">+</span> sigma)<span class="sc">^</span>(<span class="sc">-</span><span class="dv">1</span>)</span>
+<span id="cb23-10"><a href="#cb23-10" aria-hidden="true" tabindex="-1"></a>C1 <span class="ot">&lt;-</span> (<span class="dv">2</span><span class="sc">*</span>pi<span class="sc">*</span>denom1)<span class="sc">^</span>(<span class="sc">-</span>n<span class="sc">/</span><span class="dv">2</span>) <span class="sc">*</span> <span class="fu">exp</span>(denom1<span class="sc">*</span>(<span class="sc">-</span>sumx<span class="sc">*</span>n<span class="sc">*</span>sigma1<span class="sc">/</span>sigma <span class="sc">-</span> sumx <span class="sc">-</span> mu1<span class="sc">*</span>n <span class="sc">-</span> mu1<span class="sc">*</span>sigma1<span class="sc">/</span>sigma <span class="sc">+</span> sigma<span class="sc">*</span>mu1<span class="sc">^</span><span class="dv">2</span><span class="sc">/</span>sigma1 <span class="sc">+</span> <span class="dv">2</span><span class="sc">*</span>mu1<span class="sc">*</span>sumx <span class="sc">+</span> sigma1<span class="sc">*</span>sumx<span class="sc">^</span><span class="dv">2</span><span class="sc">/</span>sigma)) <span class="co"># No conocemos sum x_i^2, pero igual se cancelará, lo único que no es lo que lleva \mu_j, pues es diferente para j=1,2.</span></span>
+<span id="cb23-11"><a href="#cb23-11" aria-hidden="true" tabindex="-1"></a>C2 <span class="ot">&lt;-</span> (<span class="dv">2</span><span class="sc">*</span>pi<span class="sc">*</span>denom2)<span class="sc">^</span>(<span class="sc">-</span>n<span class="sc">/</span><span class="dv">2</span>) <span class="sc">*</span> <span class="fu">exp</span>(denom2<span class="sc">*</span>(<span class="sc">-</span>sumx<span class="sc">*</span>n<span class="sc">*</span>sigma2<span class="sc">/</span>sigma <span class="sc">-</span> sumx <span class="sc">-</span> mu2<span class="sc">*</span>n <span class="sc">-</span> mu2<span class="sc">*</span>sigma2<span class="sc">/</span>sigma <span class="sc">+</span> sigma<span class="sc">*</span>mu2<span class="sc">^</span><span class="dv">2</span><span class="sc">/</span>sigma2 <span class="sc">+</span> <span class="dv">2</span><span class="sc">*</span>mu2<span class="sc">*</span>sumx <span class="sc">+</span> sigma2<span class="sc">*</span>sumx<span class="sc">^</span><span class="dv">2</span><span class="sc">/</span>sigma))</span>
+<span id="cb23-12"><a href="#cb23-12" aria-hidden="true" tabindex="-1"></a></span>
+<span id="cb23-13"><a href="#cb23-13" aria-hidden="true" tabindex="-1"></a>w01 <span class="ot">&lt;-</span> <span class="fl">0.9</span></span>
+<span id="cb23-14"><a href="#cb23-14" aria-hidden="true" tabindex="-1"></a>w02 <span class="ot">&lt;-</span> <span class="fl">0.1</span></span>
+<span id="cb23-15"><a href="#cb23-15" aria-hidden="true" tabindex="-1"></a>C <span class="ot">&lt;-</span> w01 <span class="sc">*</span> C1 <span class="sc">+</span> w02 <span class="sc">*</span> C2</span>
+<span id="cb23-16"><a href="#cb23-16" aria-hidden="true" tabindex="-1"></a></span>
+<span id="cb23-17"><a href="#cb23-17" aria-hidden="true" tabindex="-1"></a><span class="co"># Pesos a posteriori</span></span>
+<span id="cb23-18"><a href="#cb23-18" aria-hidden="true" tabindex="-1"></a>w11 <span class="ot">&lt;-</span> w01 <span class="sc">*</span> C1 <span class="sc">/</span> C</span>
+<span id="cb23-19"><a href="#cb23-19" aria-hidden="true" tabindex="-1"></a>w12 <span class="ot">&lt;-</span> w02 <span class="sc">*</span> C2 <span class="sc">/</span> C</span></code><button title="Copiar al portapapeles" class="code-copy-button"><i class="bi"></i></button></pre></div>
+</div>
+<p>Luego, la distribución a posteriori es: <span class="math inline">\(\theta|y \sim 0.0015 \cdot N\left( \left( \frac{n}{\sigma^2} + \frac{1}{\sigma_1^2} \right)^{-1} \left( \frac{\mu_1}{\sigma_1^2} + \frac{\sum x_i}{\sigma^2} \right), \left( \frac{n}{\sigma^2} + \frac{1}{\sigma_1^2} \right)^{-1} \right) + 0.9985 \cdot N \left( \left( \frac{n}{\sigma^2} + \frac{1}{\sigma_2^2} \right)^{-1} \left( \frac{\mu_2}{\sigma_2^2} + \frac{\sum x_i}{\sigma^2} \right), \left( \frac{n}{\sigma^2} + \frac{1}{\sigma_2^2} \right)^{-1} \right)\)</span>. Entonces podemos simular a partir de esta distribución:</p>
+<div class="cell">
+<div class="sourceCode cell-code" id="cb24"><pre class="sourceCode r code-with-copy"><code class="sourceCode r"><span id="cb24-1"><a href="#cb24-1" aria-hidden="true" tabindex="-1"></a>var1 <span class="ot">&lt;-</span> (n<span class="sc">/</span>sigma <span class="sc">+</span> <span class="dv">1</span><span class="sc">/</span>sigma1)<span class="sc">^</span>(<span class="sc">-</span><span class="dv">1</span>)</span>
+<span id="cb24-2"><a href="#cb24-2" aria-hidden="true" tabindex="-1"></a>var2 <span class="ot">&lt;-</span> (n<span class="sc">/</span>sigma <span class="sc">+</span> <span class="dv">1</span><span class="sc">/</span>sigma2)<span class="sc">^</span>(<span class="sc">-</span><span class="dv">1</span>)</span>
+<span id="cb24-3"><a href="#cb24-3" aria-hidden="true" tabindex="-1"></a></span>
+<span id="cb24-4"><a href="#cb24-4" aria-hidden="true" tabindex="-1"></a><span class="fu">set.seed</span>(<span class="dv">2023</span>)</span>
+<span id="cb24-5"><a href="#cb24-5" aria-hidden="true" tabindex="-1"></a></span>
+<span id="cb24-6"><a href="#cb24-6" aria-hidden="true" tabindex="-1"></a>simula2 <span class="ot">&lt;-</span> <span class="cn">NULL</span></span>
+<span id="cb24-7"><a href="#cb24-7" aria-hidden="true" tabindex="-1"></a><span class="cf">for</span> (j <span class="cf">in</span> <span class="dv">1</span><span class="sc">:</span><span class="dv">10000</span>) {</span>
+<span id="cb24-8"><a href="#cb24-8" aria-hidden="true" tabindex="-1"></a>  <span class="cf">if</span> (<span class="fu">runif</span>(<span class="dv">1</span>) <span class="sc">&lt;</span> w11){</span>
+<span id="cb24-9"><a href="#cb24-9" aria-hidden="true" tabindex="-1"></a>    simula2[j] <span class="ot">&lt;-</span> <span class="fu">rnorm</span>(<span class="dv">1</span>, <span class="at">mean =</span> var1<span class="sc">*</span>(mu1<span class="sc">/</span>sigma1 <span class="sc">+</span> sumx<span class="sc">/</span>sigma), <span class="at">sd =</span> <span class="fu">sqrt</span>(var1))</span>
+<span id="cb24-10"><a href="#cb24-10" aria-hidden="true" tabindex="-1"></a>  }</span>
+<span id="cb24-11"><a href="#cb24-11" aria-hidden="true" tabindex="-1"></a>  <span class="cf">else</span>{</span>
+<span id="cb24-12"><a href="#cb24-12" aria-hidden="true" tabindex="-1"></a>    simula2[j] <span class="ot">&lt;-</span> <span class="fu">rnorm</span>(<span class="dv">1</span>, <span class="at">mean =</span> var2<span class="sc">*</span>(mu2<span class="sc">/</span>sigma2 <span class="sc">+</span> sumx<span class="sc">/</span>sigma), <span class="at">sd =</span> <span class="fu">sqrt</span>(var2))</span>
+<span id="cb24-13"><a href="#cb24-13" aria-hidden="true" tabindex="-1"></a>  }</span>
+<span id="cb24-14"><a href="#cb24-14" aria-hidden="true" tabindex="-1"></a>}</span>
+<span id="cb24-15"><a href="#cb24-15" aria-hidden="true" tabindex="-1"></a></span>
+<span id="cb24-16"><a href="#cb24-16" aria-hidden="true" tabindex="-1"></a><span class="fu">hist</span>(simula2, </span>
+<span id="cb24-17"><a href="#cb24-17" aria-hidden="true" tabindex="-1"></a>     <span class="at">probability =</span> T, </span>
+<span id="cb24-18"><a href="#cb24-18" aria-hidden="true" tabindex="-1"></a>     <span class="at">breaks =</span> <span class="dv">50</span>, </span>
+<span id="cb24-19"><a href="#cb24-19" aria-hidden="true" tabindex="-1"></a>     <span class="at">main =</span> <span class="st">"Histograma de simulaciones de la Posteriori"</span></span>
+<span id="cb24-20"><a href="#cb24-20" aria-hidden="true" tabindex="-1"></a>     )</span></code><button title="Copiar al portapapeles" class="code-copy-button"><i class="bi"></i></button></pre></div>
+<div class="cell-output-display">
+<p><img src="Metodos-bayesianos_Ayudantia8_files/figure-html/unnamed-chunk-10-1.png" class="img-fluid" width="672"></p>
+</div>
+</div>
+<p>Graficamos:</p>
+<div class="cell">
+<div class="sourceCode cell-code" id="cb25"><pre class="sourceCode r code-with-copy"><code class="sourceCode r"><span id="cb25-1"><a href="#cb25-1" aria-hidden="true" tabindex="-1"></a>densidad <span class="ot">&lt;-</span> <span class="fu">density</span>(simula2)</span>
+<span id="cb25-2"><a href="#cb25-2" aria-hidden="true" tabindex="-1"></a>datos <span class="ot">&lt;-</span> <span class="fu">data.frame</span>(<span class="at">x =</span> densidad<span class="sc">$</span>x, <span class="at">y =</span> densidad<span class="sc">$</span>y)</span>
+<span id="cb25-3"><a href="#cb25-3" aria-hidden="true" tabindex="-1"></a>intervalo <span class="ot">&lt;-</span> <span class="fu">hdi</span>(densidad, <span class="at">allowSplit =</span> <span class="cn">TRUE</span>, <span class="at">credMass =</span> <span class="fl">0.95</span>) </span>
+<span id="cb25-4"><a href="#cb25-4" aria-hidden="true" tabindex="-1"></a>fdp.int <span class="ot">&lt;-</span> <span class="fu">attr</span>(intervalo, <span class="st">'height'</span>)</span>
+<span id="cb25-5"><a href="#cb25-5" aria-hidden="true" tabindex="-1"></a></span>
+<span id="cb25-6"><a href="#cb25-6" aria-hidden="true" tabindex="-1"></a><span class="fu">ggplot</span>(<span class="at">data=</span>datos, <span class="at">mapping=</span><span class="fu">aes</span>(<span class="at">x =</span> x, <span class="at">y =</span> y)) <span class="sc">+</span></span>
+<span id="cb25-7"><a href="#cb25-7" aria-hidden="true" tabindex="-1"></a>  <span class="fu">geom_ribbon</span>(<span class="at">data=</span>datos[datos<span class="sc">$</span>x <span class="sc">&lt;</span> intervalo[<span class="dv">2</span>],][datos<span class="sc">$</span>x <span class="sc">&gt;</span> intervalo[<span class="dv">1</span>],], <span class="at">mapping =</span> <span class="fu">aes</span>(<span class="at">ymin=</span><span class="dv">0</span>, <span class="at">ymax=</span>y), <span class="at">fill =</span> <span class="st">"red"</span>) <span class="sc">+</span>  </span>
+<span id="cb25-8"><a href="#cb25-8" aria-hidden="true" tabindex="-1"></a>  <span class="fu">geom_line</span>(<span class="at">lwd=</span><span class="fl">1.5</span>) <span class="sc">+</span></span>
+<span id="cb25-9"><a href="#cb25-9" aria-hidden="true" tabindex="-1"></a>  <span class="fu">labs</span>(<span class="at">title =</span> <span class="st">"Función de densidad"</span>,</span>
+<span id="cb25-10"><a href="#cb25-10" aria-hidden="true" tabindex="-1"></a>       <span class="at">x =</span> <span class="st">"x"</span>,</span>
+<span id="cb25-11"><a href="#cb25-11" aria-hidden="true" tabindex="-1"></a>       <span class="at">y =</span> <span class="st">"Densidad a Posteriori"</span></span>
+<span id="cb25-12"><a href="#cb25-12" aria-hidden="true" tabindex="-1"></a>       ) <span class="sc">+</span></span>
+<span id="cb25-13"><a href="#cb25-13" aria-hidden="true" tabindex="-1"></a>  <span class="fu">geom_hline</span>(<span class="at">yintercept=</span>fdp.int, <span class="at">linetype=</span><span class="st">"dashed"</span>, <span class="at">lwd=</span><span class="fl">1.5</span>, <span class="at">color=</span><span class="st">"blue"</span>) <span class="sc">+</span></span>
+<span id="cb25-14"><a href="#cb25-14" aria-hidden="true" tabindex="-1"></a>  <span class="fu">theme_light</span>()</span></code><button title="Copiar al portapapeles" class="code-copy-button"><i class="bi"></i></button></pre></div>
+<div class="cell-output-display">
+<p><img src="Metodos-bayesianos_Ayudantia8_files/figure-html/unnamed-chunk-11-1.png" class="img-fluid" width="672"></p>
+</div>
+<div class="sourceCode cell-code" id="cb26"><pre class="sourceCode r code-with-copy"><code class="sourceCode r"><span id="cb26-1"><a href="#cb26-1" aria-hidden="true" tabindex="-1"></a>x <span class="ot">&lt;-</span> <span class="fu">seq</span>(<span class="sc">-</span><span class="dv">10</span>, <span class="dv">9</span>, <span class="at">length.out =</span> <span class="dv">1000</span>)</span>
+<span id="cb26-2"><a href="#cb26-2" aria-hidden="true" tabindex="-1"></a><span class="fu">ggplot</span>(<span class="cn">NULL</span>, <span class="at">mapping=</span><span class="fu">aes</span>(<span class="at">x =</span> x, <span class="at">y =</span> w11<span class="sc">*</span><span class="fu">dnorm</span>(x, <span class="at">mean =</span> var1<span class="sc">*</span>(mu1<span class="sc">/</span>sigma1 <span class="sc">+</span> sumx<span class="sc">/</span>sigma), <span class="at">sd =</span> <span class="fu">sqrt</span>(var1)) <span class="sc">+</span> w12<span class="sc">*</span><span class="fu">dnorm</span>(x, <span class="at">mean =</span> var2<span class="sc">*</span>(mu2<span class="sc">/</span>sigma2 <span class="sc">+</span> sumx<span class="sc">/</span>sigma), <span class="at">sd =</span> <span class="fu">sqrt</span>(var2)))) <span class="sc">+</span></span>
+<span id="cb26-3"><a href="#cb26-3" aria-hidden="true" tabindex="-1"></a>  <span class="fu">geom_line</span>() <span class="sc">+</span></span>
+<span id="cb26-4"><a href="#cb26-4" aria-hidden="true" tabindex="-1"></a>  <span class="fu">scale_x_continuous</span>(<span class="at">limits =</span> <span class="fu">c</span>(<span class="sc">-</span><span class="fl">1.5</span>,<span class="fl">0.5</span>)) <span class="sc">+</span></span>
+<span id="cb26-5"><a href="#cb26-5" aria-hidden="true" tabindex="-1"></a>  <span class="fu">theme_light</span>()</span></code><button title="Copiar al portapapeles" class="code-copy-button"><i class="bi"></i></button></pre></div>
+<div class="cell-output cell-output-stderr">
+<pre><code>Warning: Removed 894 row(s) containing missing values (geom_path).</code></pre>
+</div>
+<div class="cell-output-display">
+<p><img src="Metodos-bayesianos_Ayudantia8_files/figure-html/unnamed-chunk-11-2.png" class="img-fluid" width="672"></p>
 </div>
 </div>
 </section>
